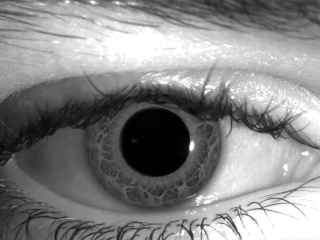
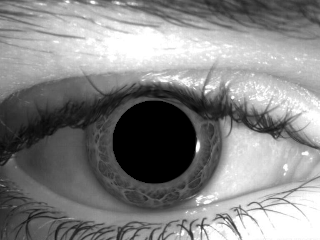
Pupil blackening added

diff --git a/LinearDeformer.py b/LinearDeformer.py
@@ -154,25 +154,59 @@ class LinearDeformer(object):
         x = ((r1 * (xp - xc)) / r1p) + xc
         y = ((r1 * (yp - yc)) / r1p) + yc
         return x, y
-    
+    '''
     def create_grid(self, r1, r2, r1p, h, w, xc, yc):
         grid = torch.zeros((h, w, 2))
         for xp in range(w):
             for yp in range(h):
-                r3p = math.dist((xp, yp), (xc, yc))
-                if r3p == 0 or r3p >= r2:
-                    grid[yp, xp, 0] = xp
-                    grid[yp, xp, 1] = yp
-                elif r3p > r1p and r3p < r2:
-                    x, y = self.find_xy_between(r1, r2, r1p, r3p, xp, yp, xc, yc)
-                    grid[yp, xp, 0] = x
-                    grid[yp, xp, 1] = y
-                else:
-                    x, y = self.find_xy_less(r1, r1p, xp, yp, xc, yc)
-                    grid[yp, xp, 0] = x
-                    grid[yp, xp, 1] = y
-        grid = grid.unsqueeze(0)
-        return grid
+                #r3p = math.dist((xp, yp), (xc, yc))
+                #if r3p == 0 or r3p >= r2:
+                grid[yp, xp, 0] = xp
+                grid[yp, xp, 1] = yp
+                #elif r3p > r1p and r3p < r2:
+                #    x, y = self.find_xy_between(r1, r2, r1p, r3p, xp, yp, xc, yc)
+                #    grid[yp, xp, 0] = x
+                #    grid[yp, xp, 1] = y
+                #else:
+                #    x, y = self.find_xy_less(r1, r1p, xp, yp, xc, yc)
+                #    grid[yp, xp, 0] = x
+                #    grid[yp, xp, 1] = y
+       #grid = grid.unsqueeze(0)
+       # print(grid)
+
+        Y = torch.arange(0, h).reshape(1, h, 1).repeat(1, 1, w).float()
+        X = torch.arange(0, w).reshape(1, 1, w).repeat(1, h, 1).float()
+
+        no_change = torch.cat((X.unsqueeze(3), Y.unsqueeze(3)), dim=3)
+
+        #print(torch.sum(grid - no_change))
+
+        return no_change
+    '''
+    def create_grid(self, r1, r2, r1p, b, h, w, xc, yc): # batched implementation
+        Y = torch.arange(0, h).reshape(1, h, 1).repeat(b, 1, w).float()
+        X = torch.arange(0, w).reshape(1, 1, w).repeat(b, h, 1).float()
+
+        r3p = torch.sqrt((X - xc) ** 2 + (Y - yc) ** 2) #(b,h,w)
+        r1r = r1.reshape(-1, 1, 1).repeat(1, h, w)
+        r2r = r2.reshape(-1, 1, 1).repeat(1, h, w)
+        r1pr = r1p.reshape(-1, 1, 1).repeat(1, h, w)
+        xcr = xc.reshape(-1, 1, 1).repeat(1, h, w)
+        ycr = yc.reshape(-1, 1, 1).repeat(1, h, w)
+
+        no_change_cond = torch.where(r3p >= r2r, 1, 0).unsqueeze(3).repeat(1,1,1,2)
+        no_change = torch.cat((X.unsqueeze(3), Y.unsqueeze(3)), dim=3)
+        xy_between_cond = torch.where(torch.logical_and(r3p > r1pr, r3p < r2r), 1, 0).unsqueeze(3).repeat(1,1,1,2)
+        x_between, y_between = self.find_xy_between(r1r, r2r, r1pr, r3p, X, Y, xcr, ycr)
+        xy_between = torch.cat((x_between.unsqueeze(3), y_between.unsqueeze(3)), dim=3)
+
+        xy_less_cond = torch.where(r3p <= r1pr, 1, 0).unsqueeze(3).repeat(1,1,1,2)
+        x_less, y_less = self.find_xy_less(r1r, r1pr, X, Y, xcr, ycr)
+        xy_less = torch.cat((x_less.unsqueeze(3), y_less.unsqueeze(3)), dim=3)
+
+        grid = (no_change_cond * no_change + xy_between_cond * xy_between + xy_less_cond * xy_less).float()
+
+        return grid, np.uint8((r3p > r1pr).numpy()[0])
     
     def deform(self, input, grid, interp_mode):  #helper function
     
@@ -195,18 +229,20 @@ class LinearDeformer(object):
     
     def linear_deform(self, image, alpha):
         pupil_xyr, iris_xyr = self.circApprox(image)
-        xc = (pupil_xyr[0] + iris_xyr[0])/2
-        yc = (pupil_xyr[1] + iris_xyr[1])/2
-        r1 = pupil_xyr[2]
-        r2 = iris_xyr[2]
-        r1p = r2 * alpha
+        xc = torch.tensor((pupil_xyr[0] + iris_xyr[0])/2).unsqueeze(0).float()
+        yc = torch.tensor((pupil_xyr[1] + iris_xyr[1])/2).unsqueeze(0).float()
+        r1 = torch.tensor(pupil_xyr[2]).unsqueeze(0).float()
+        r2 = torch.tensor(iris_xyr[2]).unsqueeze(0).float()
+        r1p = r2 * torch.tensor(alpha).unsqueeze(0).float()
         image = ToTensor()(image).unsqueeze(0) * 255
         w = image.shape[3]
         h = image.shape[2]
-        newgrid = self.create_grid(r1, r2, r1p, h, w, xc, yc)
+        newgrid, pupil_mask = self.create_grid(r1, r2, r1p, 1, h, w, xc, yc)
+        #print(newgrid)
+        #torch.save(newgrid, 'newgrid.pt')
         deformed_image = self.deform(image, newgrid, interp_mode='bilinear')
         deformed_image = torch.clamp(torch.round(deformed_image), min=0, max=255)
-        return Image.fromarray(deformed_image[0][0].cpu().numpy().astype(np.uint8), 'L')
+        return Image.fromarray(deformed_image[0][0].cpu().numpy().astype(np.uint8) * pupil_mask, 'L')
     
 if __name__ == '__main__':
     parser = argparse.ArgumentParser()
@@ -227,5 +263,5 @@ if __name__ == '__main__':
 
     linearDeformer = LinearDeformer(net_path=args.net_path, device=device)
     image_pil = Image.fromarray(np.array(Image.open(args.image_path).convert('RGB'))[:, :, 0], 'L')
-    deformed_image = linearDeformer.linear_deform(image_pil, 0.5)
+    deformed_image = linearDeformer.linear_deform(image_pil, 0.6)
     deformed_image.save(os.path.join(args.save_dir, os.path.split(args.image_path)[1]))
